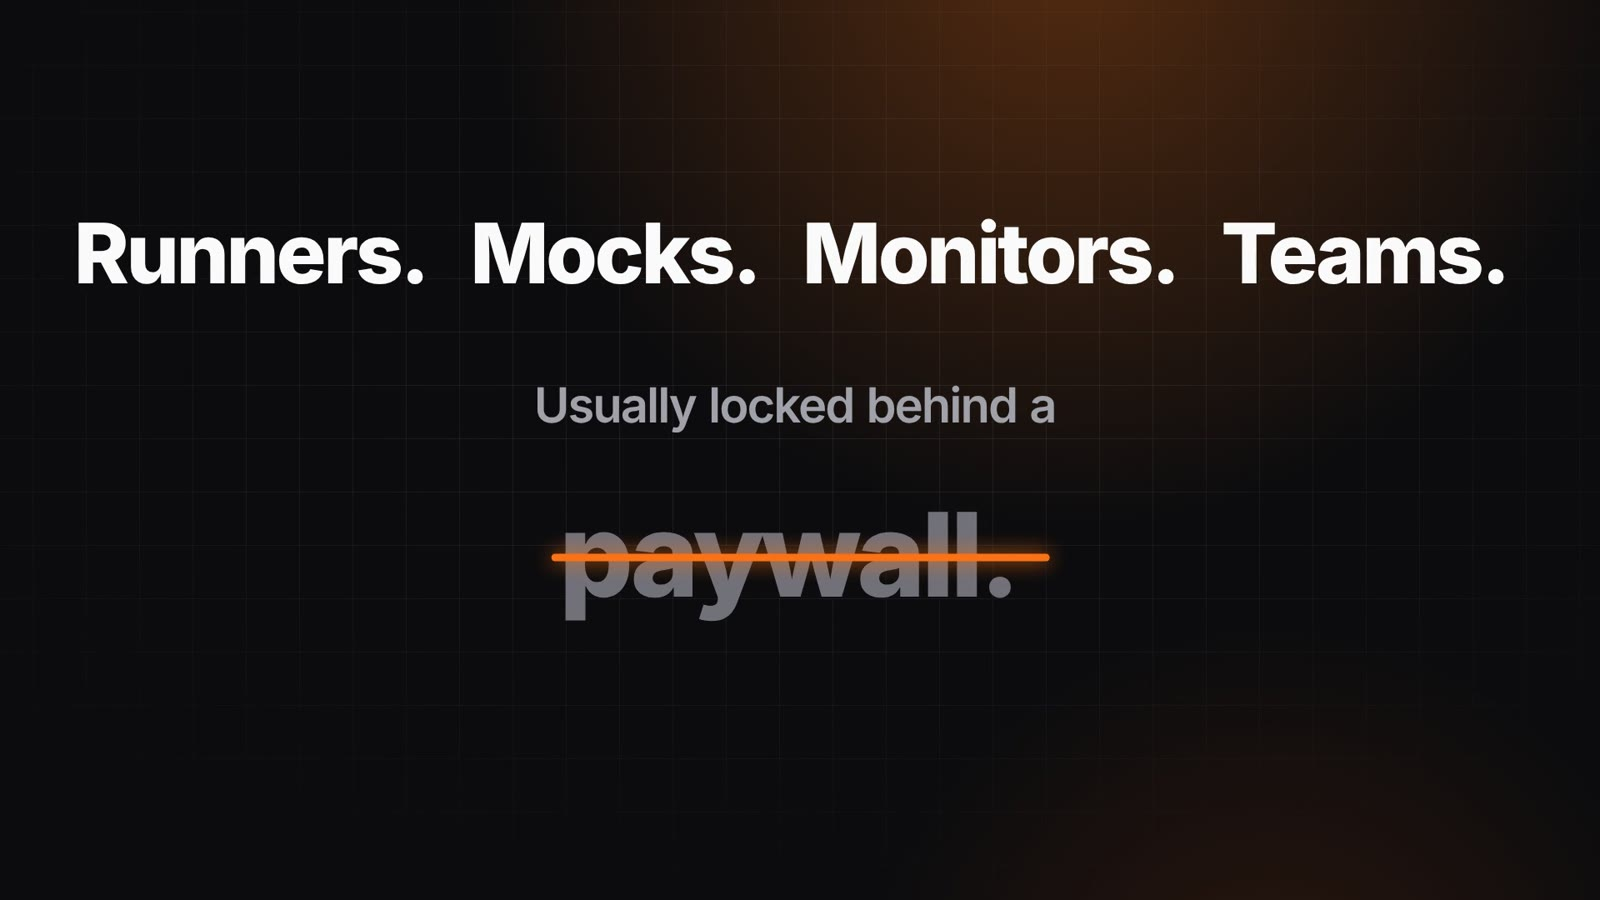
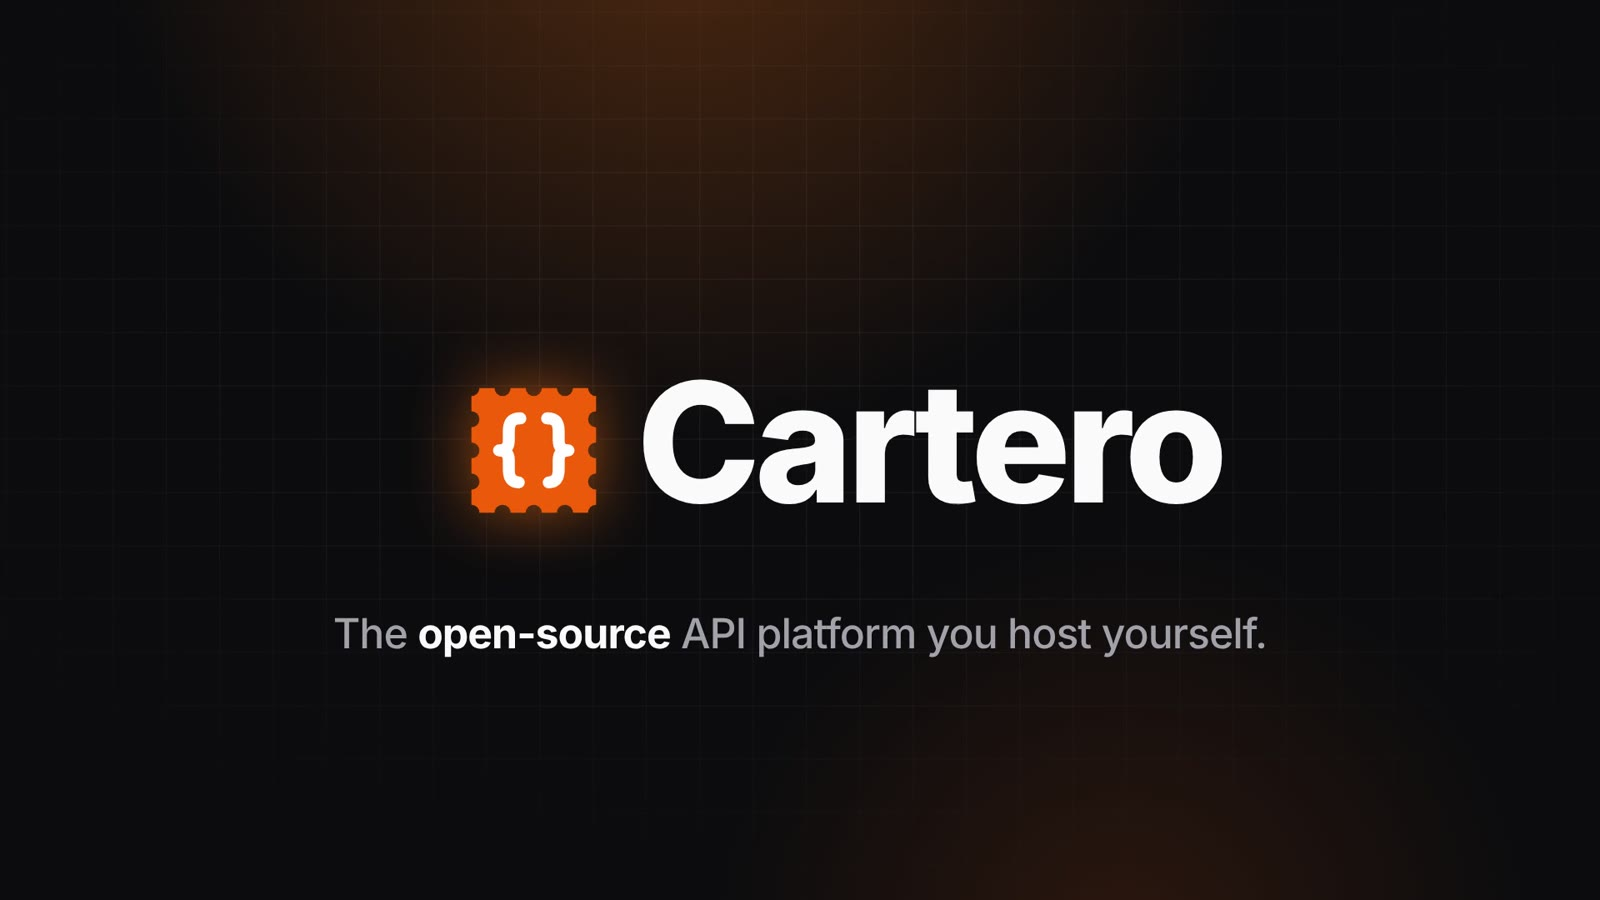
README: más capturas, en inglés y español
- Captura principal (petición, tema oscuro) bajo el vídeo.
- Sección Screenshots / Capturas con 11 pantallas y su pie: contratos
  (generado y roto), tests, runner, mocks, monitores, equipos,
  documentación, importar, paleta de comandos y tema claro.
- La captura del MCP y la de la app de escritorio en sus secciones.
- Cada README usa las capturas de su idioma (las de la landing).
- Portada del vídeo: el logo con el lema (antes, el gancho); y su
  duración, que ahora es minuto y medio.

Changed region(s): [[0.1875, 0.3733, 0.7812, 0.7467], [0.5, 0.0, 0.9375, 0.3733], [0.0312, 0.0, 0.4688, 0.3422]]

diff --git a/README.es.md b/README.es.md
@@ -2,7 +2,9 @@
 
 # Cartero
 
-[![Vídeo de presentación de Cartero (1 minuto)](apps/landing/public/video/poster-es.jpg)](https://github.com/elrincondeisma/cartero/raw/main/apps/landing/public/video/cartero-es.mp4)
+[![Vídeo de presentación de Cartero (minuto y medio)](apps/landing/public/video/poster-es.jpg)](https://github.com/elrincondeisma/cartero/raw/main/apps/landing/public/video/cartero-es.mp4)
+
+<img src="apps/landing/src/assets/screens/request-dark.png" alt="Cartero enviando una petición, tema oscuro">
 
 **Cliente de APIs web y open source, autoalojado.** Una alternativa a Postman con lo que allí es de pago incluido gratis y sin límites: runner de colecciones, mock servers, monitores, documentación publicada y colaboración en equipo. Importa tus colecciones de Postman sin perder nada.
 
@@ -28,6 +30,34 @@
 | **Ayuda** | Asistente de bienvenida, recorrido guiado, paleta de comandos (Ctrl+K), [manual completo](docs/manual/es/README.md) en `/ayuda` y datos de ejemplo con APIs reales que se quitan con un clic |
 | **Equipos** | Workspaces, invitaciones, roles (propietario, admin, editor, lector), presencia en tiempo real, comentarios, historial de cambios con restauración, fork y merge, tokens de API |
 | **Acceso y administración** | Email y contraseña, **Google** y **GitHub**. **Asistente de instalación** paso a paso al primer arranque, y un panel de administración con todos los ajustes: cuentas y roles, registro, OAuth, email (SMTP) y protección SSRF |
+
+## Capturas
+
+<table>
+  <tr>
+    <td width="50%" valign="top"><img src="apps/landing/src/assets/screens/contract.png" alt="Pestaña Contrato con el árbol de campos de una respuesta"><br><b>Contratos de API</b> · generados desde una respuesta real y editados como árbol de campos</td>
+    <td width="50%" valign="top"><img src="apps/landing/src/assets/screens/contract-fail.png" alt="Respuesta que no cumple el contrato, con sus fallos"><br><b>Comprobación del contrato</b> · cada envío se comprueba: lo enviado y lo recibido</td>
+  </tr>
+  <tr>
+    <td width="50%" valign="top"><img src="apps/landing/src/assets/screens/scripts.png" alt="Editor de scripts post-response con fragmentos"><br><b>Tests y scripts</b> · la API <code>pm.*</code> con autocompletado y fragmentos</td>
+    <td width="50%" valign="top"><img src="apps/landing/src/assets/screens/runner.png" alt="Resultados del runner con los tests de cada petición"><br><b>Runner de colecciones</b> · ejecuciones sin límites con resultados en vivo</td>
+  </tr>
+  <tr>
+    <td width="50%" valign="top"><img src="apps/landing/src/assets/screens/mocks.png" alt="Mock server con sus llamadas recibidas"><br><b>Mock servers</b> · con tus ejemplos o tus contratos, y registro de llamadas</td>
+    <td width="50%" valign="top"><img src="apps/landing/src/assets/screens/monitors.png" alt="Monitor con disponibilidad e historial"><br><b>Monitores</b> · ejecuciones programadas con disponibilidad y avisos</td>
+  </tr>
+  <tr>
+    <td width="50%" valign="top"><img src="apps/landing/src/assets/screens/collab.png" alt="Petición con el panel de comentarios abierto"><br><b>Equipos</b> · presencia, comentarios e historial de cambios</td>
+    <td width="50%" valign="top"><img src="apps/landing/src/assets/screens/docs.png" alt="Documentación publicada de una colección"><br><b>Documentación publicada</b> · una página pública por colección</td>
+  </tr>
+  <tr>
+    <td width="50%" valign="top"><img src="apps/landing/src/assets/screens/import.png" alt="Diálogo de importación"><br><b>Importar</b> · Postman, Insomnia, OpenAPI y cURL</td>
+    <td width="50%" valign="top"><img src="apps/landing/src/assets/screens/palette.png" alt="Paleta de comandos buscando peticiones"><br><b>Paleta de comandos</b> · Ctrl+K encuentra cualquier petición o acción</td>
+  </tr>
+  <tr>
+    <td width="50%" valign="top"><img src="apps/landing/src/assets/screens/request-light.png" alt="Petición con el tema claro"><br><b>Tema claro</b> · toda la app, en claro y oscuro</td>
+  </tr>
+</table>
 
 ## Puesta en marcha
 
@@ -67,9 +97,13 @@ claude mcp add --transport http cartero https://cartero.ejemplo.com/mcp --header
 
 Más detalles en el [manual](docs/manual/es/13-ia-mcp.md).
 
+<img src="apps/landing/src/assets/screens/mcp.png" alt="Página de ajustes para conectar un asistente de IA por MCP">
+
 ## App de escritorio
 
 Una app nativa para macOS, Windows y Linux, escrita en Rust. Funciona sola (tus colecciones se guardan en tu ordenador y las peticiones salen de tu equipo, así que llegan a `localhost` y a tu VPN) y puede sincronizar workspaces con un servidor de Cartero. Descárgala en [Releases](https://github.com/elrincondeisma/cartero/releases) y lee la [guía](docs/manual/es/18-app-de-escritorio.md).
+
+<img src="apps/landing/src/assets/screens/desktop.png" alt="App de escritorio de Cartero comprobando un contrato contra una API en localhost, con un mock local en marcha">
 
 ## CLI
 

diff --git a/README.md b/README.md
@@ -2,7 +2,9 @@
 
 # Cartero
 
-[![Cartero product video (1 minute)](apps/landing/public/video/poster-en.jpg)](https://github.com/elrincondeisma/cartero/raw/main/apps/landing/public/video/cartero-en.mp4)
+[![Cartero product video (1½ minutes)](apps/landing/public/video/poster-en.jpg)](https://github.com/elrincondeisma/cartero/raw/main/apps/landing/public/video/cartero-en.mp4)
+
+<img src="apps/landing/src/assets/screens/en/request-dark.png" alt="Cartero sending a request, dark theme">
 
 **An open-source, self-hosted web API client.** A Postman alternative that includes what Postman charges for, free and without limits: collection runner, mock servers, monitors, published documentation and team collaboration. Import your Postman collections without losing anything.
 
@@ -28,6 +30,34 @@
 | **Help** | Welcome wizard, guided tour, command palette (Ctrl+K), [full user guide](docs/manual/README.md) at `/ayuda` and sample data with real APIs that you can remove in one click |
 | **Teams** | Workspaces, invitations, roles (owner, admin, editor, viewer), real-time presence, comments, change history with restore, fork and merge, API tokens |
 | **Sign-in and admin** | Email and password, **Google** and **GitHub**. Step-by-step **setup wizard** on first start, and an admin panel for every setting: accounts and roles, sign-up, OAuth, email (SMTP) and SSRF protection |
+
+## Screenshots
+
+<table>
+  <tr>
+    <td width="50%" valign="top"><img src="apps/landing/src/assets/screens/en/contract.png" alt="Contract tab with the field tree of a response"><br><b>API contracts</b> · generated from a real response, edited as a field tree</td>
+    <td width="50%" valign="top"><img src="apps/landing/src/assets/screens/en/contract-fail.png" alt="Response that breaks the contract, with its failures"><br><b>Contract checks</b> · every send is checked: what was sent and what came back</td>
+  </tr>
+  <tr>
+    <td width="50%" valign="top"><img src="apps/landing/src/assets/screens/en/scripts.png" alt="Post-response script editor with snippets"><br><b>Tests and scripts</b> · the <code>pm.*</code> API with autocomplete and snippets</td>
+    <td width="50%" valign="top"><img src="apps/landing/src/assets/screens/en/runner.png" alt="Runner results with tests per request"><br><b>Collection runner</b> · unlimited runs with live results</td>
+  </tr>
+  <tr>
+    <td width="50%" valign="top"><img src="apps/landing/src/assets/screens/en/mocks.png" alt="Mock server with its incoming calls"><br><b>Mock servers</b> · from saved examples or contracts, with a call log</td>
+    <td width="50%" valign="top"><img src="apps/landing/src/assets/screens/en/monitors.png" alt="Monitor with uptime and run history"><br><b>Monitors</b> · scheduled runs with uptime and alerts</td>
+  </tr>
+  <tr>
+    <td width="50%" valign="top"><img src="apps/landing/src/assets/screens/en/collab.png" alt="Request with the comments panel open"><br><b>Teams</b> · presence, comments and change history</td>
+    <td width="50%" valign="top"><img src="apps/landing/src/assets/screens/en/docs.png" alt="Published documentation of a collection"><br><b>Published docs</b> · one public page per collection</td>
+  </tr>
+  <tr>
+    <td width="50%" valign="top"><img src="apps/landing/src/assets/screens/en/import.png" alt="Import dialog"><br><b>Import</b> · Postman, Insomnia, OpenAPI and cURL</td>
+    <td width="50%" valign="top"><img src="apps/landing/src/assets/screens/en/palette.png" alt="Command palette searching requests"><br><b>Command palette</b> · Ctrl+K finds any request or action</td>
+  </tr>
+  <tr>
+    <td width="50%" valign="top"><img src="apps/landing/src/assets/screens/en/request-light.png" alt="Request in the light theme"><br><b>Light theme</b> · the whole app, in light and dark</td>
+  </tr>
+</table>
 
 ## Getting started
 
@@ -67,9 +97,13 @@ claude mcp add --transport http cartero https://cartero.example.com/mcp --header
 
 More in the [user guide](docs/manual/13-ai-mcp.md).
 
+<img src="apps/landing/src/assets/screens/en/mcp.png" alt="Settings page to connect an AI assistant over MCP">
+
 ## Desktop app
 
 A native app for macOS, Windows and Linux, written in Rust. It works on its own (your collections live on your computer and requests leave from your machine, so they reach `localhost` and your VPN) and can sync workspaces with a Cartero server. Download it from [Releases](https://github.com/elrincondeisma/cartero/releases) and read the [guide](docs/manual/18-desktop-app.md).
+
+<img src="apps/landing/src/assets/screens/en/desktop.png" alt="Cartero desktop app checking a contract against a localhost API, with a local mock running">
 
 ## CLI
 
